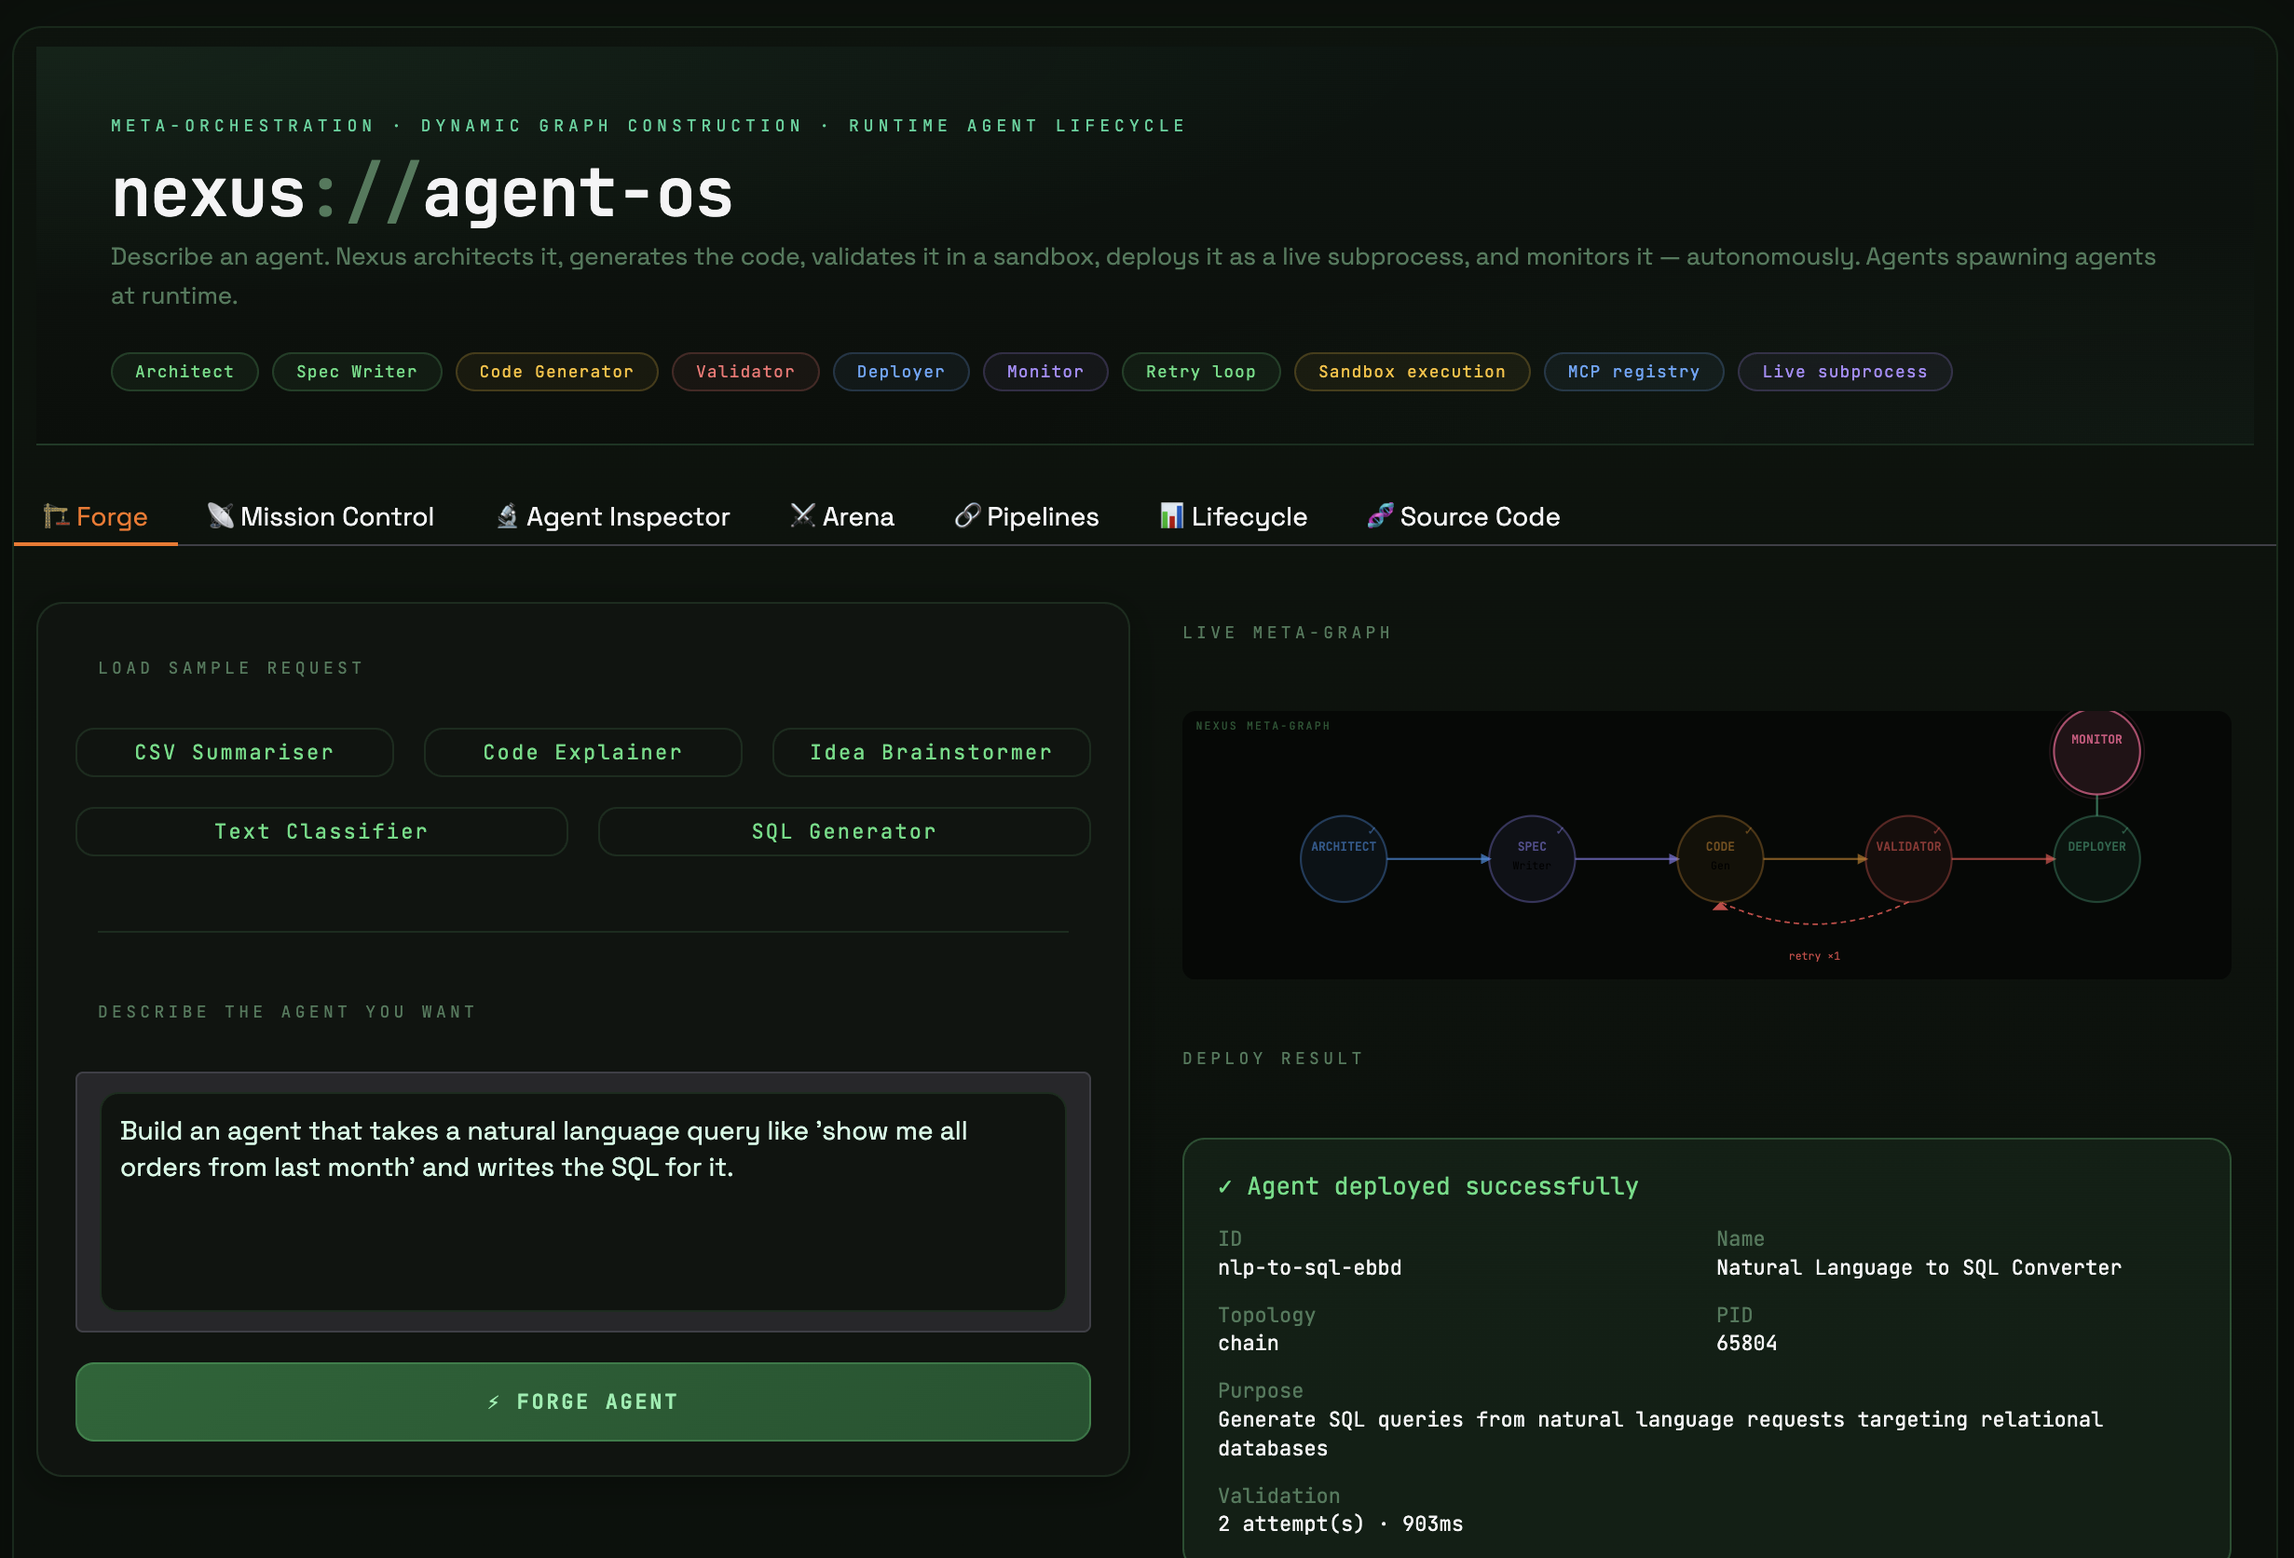
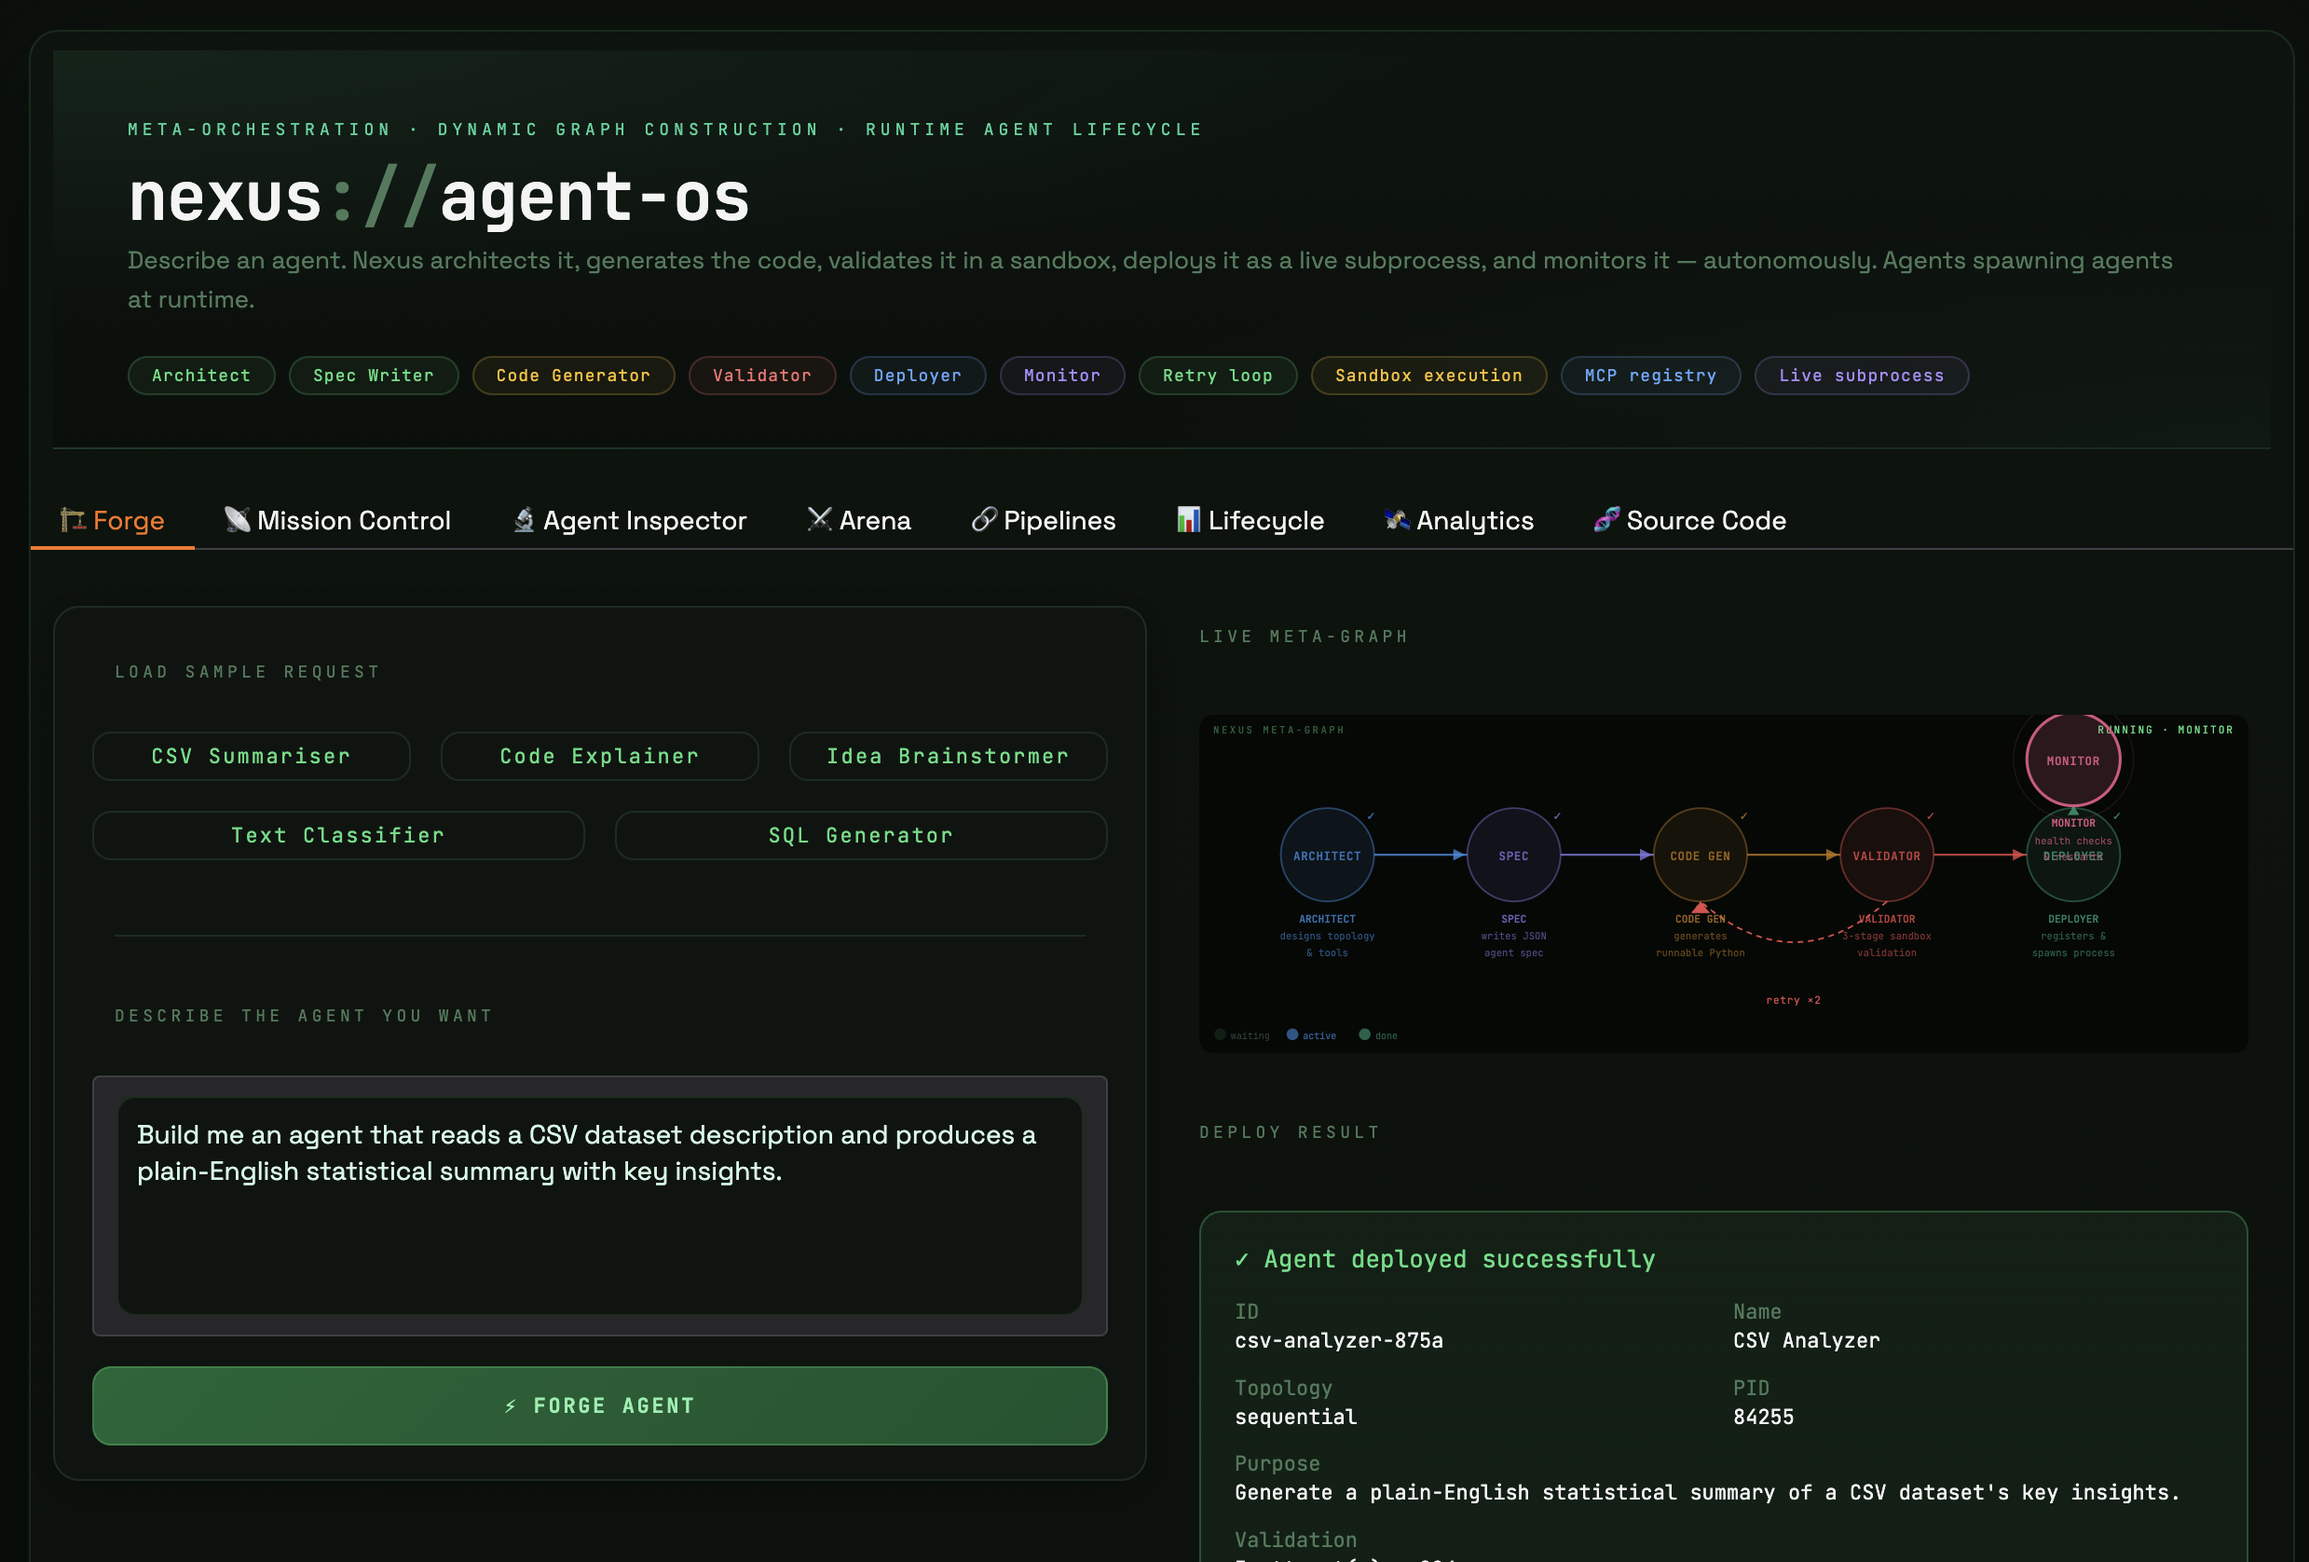
Updated UI Image

diff --git a/generated_agents/csv-analyzer-875a/agent.py b/generated_agents/csv-analyzer-875a/agent.py
@@ -7,7 +7,7 @@ from langchain_openai import ChatOpenAI
 OLLAMA_BASE_URL = os.getenv("OLLAMA_BASE_URL", "http://localhost:11434/v1")
 OLLAMA_MODEL    = os.getenv("OLLAMA_MODEL", "qwen3:8b")
 
-SYSTEM_PROMPT = """You are a CSV Analyzer that generates plain-English statistical summaries of datasets. Describe your purpose in one sentence. When analyzing data, first load the CSV file, calculate basic statistics like mean, median, and standard deviation, then present these in human-readable form. Ensure data is numerical for accurate analysis."""
+SYSTEM_PROMPT = """The CSV Analyzer processes datasets by first loading the file, then calculating basic statistics, and finally summarizing the results. Provide the CSV file path to begin. The calculator tool computes metrics like mean, median, and standard deviation. The summariser then presents these in human-readable form. Ensure the data is numerical for accurate analysis. When asked to describe your function, respond with a one-sentence summary of your purpose."""
 
 def run_agent(input_text: str) -> str:
     """Main entry point — takes input text, returns result string."""
@@ -23,7 +23,6 @@ def run_agent(input_text: str) -> str:
         return response.content.strip()
     except Exception as e:
         return f"Error: {e}"
-
 
 if __name__ == "__main__":
     mode = "task"
